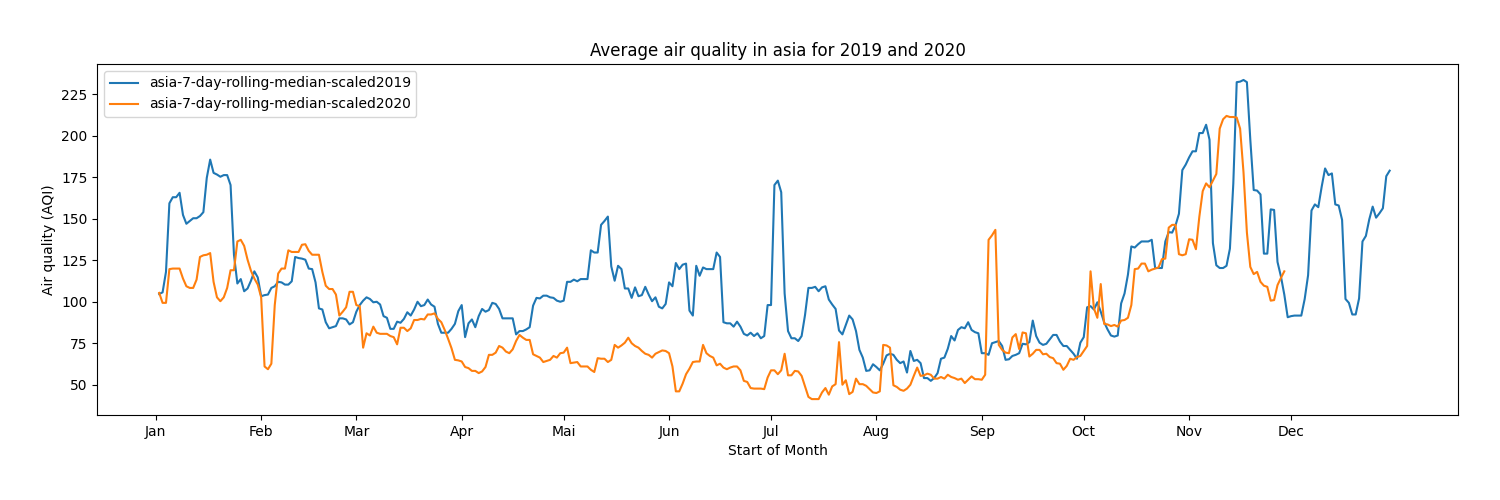
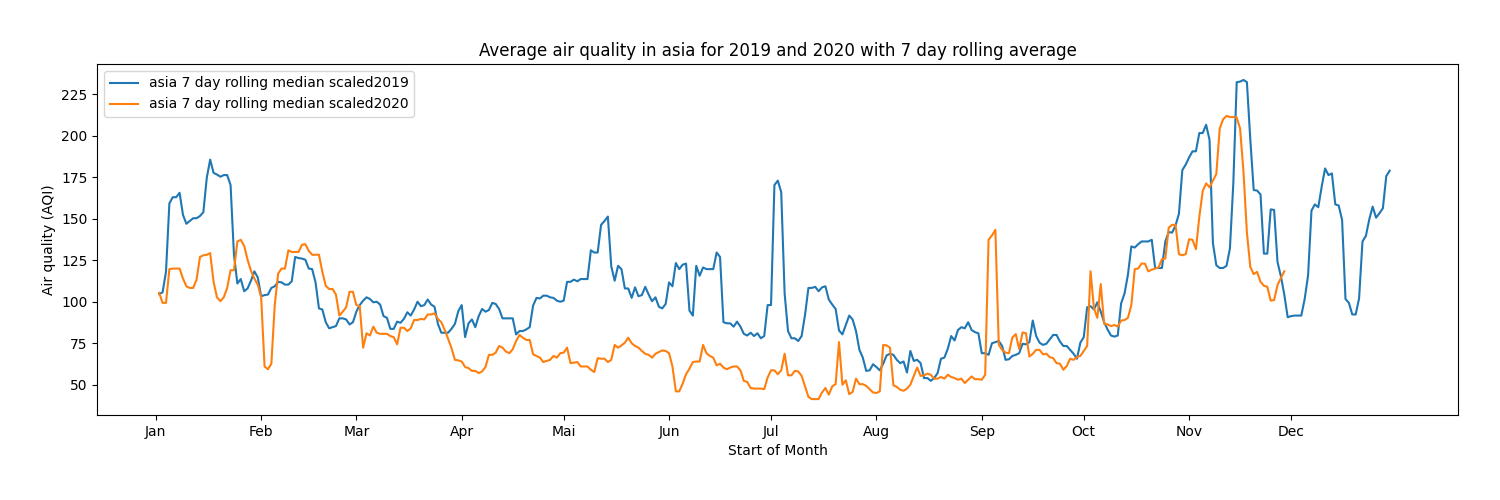
better plot labels, more human readable without dashes :)

Changed region(s): [[0.1227, 0.15, 0.276, 0.24], [0.3067, 0.09, 0.736, 0.12]]

diff --git a/air_quality/air_quality_parser.py b/air_quality/air_quality_parser.py
@@ -152,7 +152,7 @@ def combine_all_regions(path='', plot=True, save=True, N_rolling_average=7, scal
     fig = plt.figure()
     ax = plt.gca()
 
-    global_df.plot(kind='line', y=['global-mean-2019', 'global-mean-2020'], ax=ax)
+    global_df.plot(kind='line', y=['global-mean-2019', 'global-mean-2020'], ax=ax, label=['global mean 2019', 'global mean 2020'])
 
     ax.xaxis.set_major_locator(dates.MonthLocator(interval=1))
 
@@ -169,11 +169,11 @@ def combine_all_regions(path='', plot=True, save=True, N_rolling_average=7, scal
 
     plt.xlabel('Start of Month')
     if scale:
-            plt.ylabel('Scaled Air quality (AQI)')
-            plt.title('Scaled Average global air quality for 2019 and 2020')
+        plt.ylabel('Scaled Air quality (AQI)')
+        plt.title('Scaled Average global air quality for 2019 and 2020 ' + str(N_rolling_average) + 'day rolling average')
     else:
         plt.ylabel('Air quality (AQI)')
-        plt.title('Average global air quality for 2019 and 2020')
+        plt.title('Average global air quality for 2019 and 2020 ' + str(N_rolling_average) + ' day rolling average')
 
     if save:
         if scale:
@@ -191,9 +191,9 @@ def plot_regions(path='', plot=True, save=False, N_rolling_average=7, scale=Fals
 
     def get_label(region, year): 
         if scale:
-            return region + '-' + str(N_rolling_average) + '-day-rolling-median-' + str(year)
+            return region + ' ' + str(N_rolling_average) + ' day rolling median ' + str(year)
         else:
-            return region + '-' + str(N_rolling_average) + '-day-rolling-median-scaled' + str(year)
+            return region + ' ' + str(N_rolling_average) + ' day rolling median scaled' + str(year)
 
     for region, df in dfs.items():
         fig = plt.figure()
@@ -213,10 +213,10 @@ def plot_regions(path='', plot=True, save=False, N_rolling_average=7, scale=Fals
         plt.xlabel('Start of Month')
         if scale:
             plt.ylabel('Scaled Air quality (AQI)')
-            plt.title('Scaled Average air quality in ' + region + ' for 2019 and 2020')
+            plt.title('Scaled Average air quality in ' + region + ' for 2019 and 2020 ' + str(N_rolling_average) + ' day rolling average')
         else:
             plt.ylabel('Air quality (AQI)')
-            plt.title('Average air quality in ' + region + ' for 2019 and 2020')
+            plt.title('Average air quality in ' + region + ' for 2019 and 2020 with ' + str(N_rolling_average) + ' day rolling average')
 
         fig.set_figheight(5)
         fig.set_figwidth(15)
@@ -276,8 +276,8 @@ if __name__ == "__main__":
     plot_regions(path='../figures/', plot=False, save=True, N_rolling_average=7)
     plot_regions(path='../figures/', plot=False, save=True, N_rolling_average=30)
 
-    # combine_all_regions(path='../figures/', plot=False, save=True, N_rolling_average=7, scale=True)
-    # plot_regions(path='../figures/', plot=False, save=True, N_rolling_average=7, scale=True)
-    # plot_regions(path='../figures/', plot=False, save=True, N_rolling_average=30, scale=True)
+    combine_all_regions(path='../figures/', plot=False, save=True, N_rolling_average=7, scale=True)
+    plot_regions(path='../figures/', plot=False, save=True, N_rolling_average=7, scale=True)
+    plot_regions(path='../figures/', plot=False, save=True, N_rolling_average=30, scale=True)
 
     data_stats()
